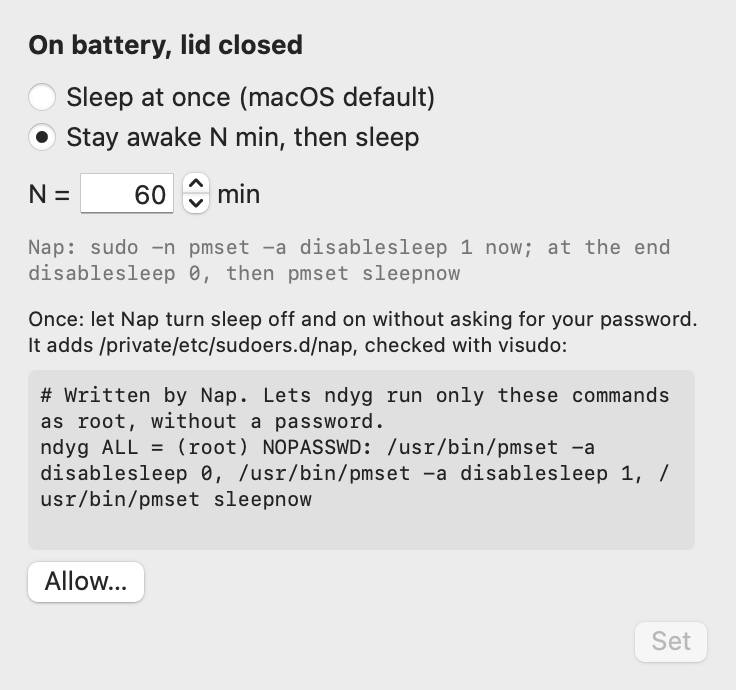
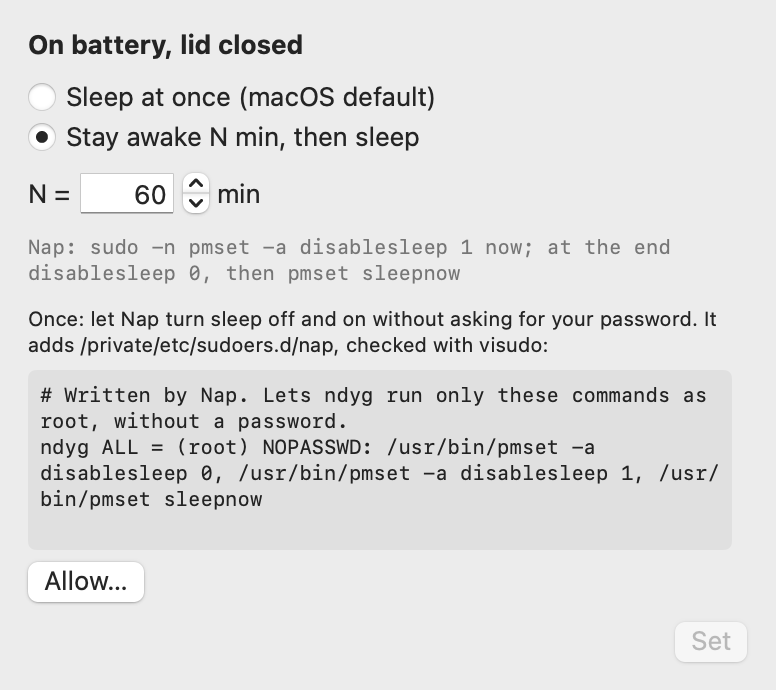
Show Me: words not raw settings, cells look clickable, macOS default choice
From a cold read of the window:
- Lid open cells say what the settings mean ("set to sleep after 1 min,
  but the display never turns off, so it never gets there") instead of
  "sleep 1, displaysleep 0" under "never sleeps".
- Every cell has a "Change" chevron, a hover state and a pointing hand,
  and a line saying "macOS default" or "not macOS default".
- Lid open choices start with "macOS default" (sudo pmset -c displaysleep
  10 sleep 1, -b displaysleep 2 sleep 1; checked on macOS 27.2 with
  IOPMCopyDefaultPreferences, read only).
- Plain names for Bluetooth advertising and Siri / Apple Intelligence;
  unknown apps lose machine IDs and keep a reason only when it is words.
- --snapshot also renders the lid open choices.

diff --git a/Sources/NapCore/Table.swift b/Sources/NapCore/Table.swift
@@ -5,17 +5,20 @@ import Foundation
 public enum Table {
     public struct Cell: Equatable, Sendable {
         public var text: String
-        /// The settings behind it, small, under the text.
+        /// One short line under the text, in words.
         public var detail: String?
         /// Whether this is what macOS does out of the box.
         public var isDefault: Bool
     }
 
     /// macOS defaults on a MacBook: sleep 1, displaysleep 10 plugged in and
-    /// 2 on battery, so it sleeps once the display is off.
+    /// 2 on battery, so it sleeps once the display is off. Checked on macOS
+    /// 27.2 with IOKit's IOPMCopyDefaultPreferences (read only).
     public static func defaultIdleMinutes(_ source: PowerSource) -> Int {
         source == .battery ? 2 : 10
     }
+
+    public static let defaultSleepMinutes = 1
 
     public static func defaultOpenText(_ source: PowerSource) -> String {
         "sleeps after \(minutes(defaultIdleMinutes(source))) idle"
@@ -39,21 +42,27 @@ public enum Table {
     public static func openCell(_ source: PowerSource, settings: PowerSettings, rule: LidRule,
                                 foreignDisableSleep: Bool) -> Cell {
         guard let s = settings.sources[source] else { return Cell(text: "unknown", detail: nil, isDefault: false) }
-        let detail = "sleep \(s.sleep ?? 0), displaysleep \(s.displaySleep ?? 0)"
+        let sleep = s.sleep ?? 0
+        let display = s.displaySleep ?? 0
         if foreignDisableSleep {
-            return Cell(text: "never sleeps (disablesleep 1)", detail: detail, isDefault: false)
+            return Cell(text: "never sleeps (disablesleep 1)",
+                        detail: "sleep is turned off for the whole Mac, not by Nap", isDefault: false)
         }
         guard let idle = idleMinutes(s) else {
-            let display = s.displaySleep ?? 0
-            let text = display == 0
-                ? "never sleeps (display stays on)"
-                : "never sleeps (display off after \(minutes(display)))"
-            return Cell(text: text, detail: detail, isDefault: false)
+            if display == 0 {
+                let detail = sleep > 0
+                    ? "set to sleep after \(minutes(sleep)), but the display never turns off, so it never gets there"
+                    : nil
+                return Cell(text: "never sleeps (display stays on)", detail: detail, isDefault: false)
+            }
+            return Cell(text: "never sleeps (display off after \(minutes(display)))", detail: nil, isDefault: false)
         }
         if rule.staysAwake {
             // Nap holds disablesleep 1 on this source so the lid can close awake.
-            return Cell(text: "never sleeps (held by the lid rule)", detail: detail, isDefault: false)
+            return Cell(text: "never sleeps (held by the lid rule)",
+                        detail: "Nap keeps sleep off so the lid can close awake", isDefault: false)
         }
+        let detail = sleep > display ? "display turns off after \(minutes(display))" : nil
         return Cell(text: "sleeps after \(minutes(idle)) idle", detail: detail,
                     isDefault: idle == defaultIdleMinutes(source))
     }
@@ -61,10 +70,11 @@ public enum Table {
     public static func closedCell(_ source: PowerSource, rule: LidRule, batteryFloor: Int,
                                   foreignDisableSleep: Bool) -> Cell {
         if foreignDisableSleep {
-            return Cell(text: "stays awake (disablesleep 1)", detail: nil, isDefault: false)
+            return Cell(text: "stays awake (disablesleep 1)",
+                        detail: "sleep is turned off for the whole Mac, not by Nap", isDefault: false)
         }
         let early = source == .battery
-            ? "sleeps early if hot or under \(batteryFloor)%"
+            ? "sleeps early if hot or battery under \(batteryFloor)%"
             : "sleeps early if hot"
         switch rule {
         case .sleep:
@@ -102,15 +112,20 @@ public enum Table {
                 name = String(m.1.split(separator: ".").last ?? m.1)
             }
             if let plain = plainWords(process: a.process, name: name) { return plain + left }
-            if name.count > 30 { name = name.prefix(29) + "…" }
-            let why = name.isEmpty || name == a.process ? "" : ", for \"\(name)\""
-            return "\(a.process) (an app or service\(why))\(left)"
+            // Keep the reason only when it reads as words, not an identifier.
+            name = withoutMachineIDs(name)
+            if name.count > 40 { name = name.prefix(39) + "…" }
+            let words = name.contains(" ") && name != a.process
+            let process = withoutMachineIDs(a.process)
+            return "\(process.isEmpty ? "an app" : process) (an app or service\(words ? ", for \"\(name)\"" : ""))\(left)"
         }
     }
 
     /// macOS services seen holding the Mac awake, said as what they are doing.
     static func plainWords(process: String, name: String) -> String? {
-        switch process {
+        if name.hasPrefix("BTLEAdvertisement") { return "Bluetooth advertising to nearby devices" }
+        if process.hasPrefix("Siri") || name.contains("Intelligence") { return "Siri / Apple Intelligence" }
+        return switch process {
         case "sharingd" where name.localizedCaseInsensitiveContains("handoff"):
             "Handoff: passing work between this Mac and a nearby iPhone or iPad"
         case "sharingd": "AirDrop or Handoff with a nearby device"
@@ -121,7 +136,20 @@ public enum Table {
         case "mds", "mds_stores", "mdworker": "Spotlight indexing"
         case "softwareupdated": "a software update"
         case "bluetoothd": "a Bluetooth device"
+        case "AddressBookSourceSync": "Contacts syncing"
         default: nil
         }
+    }
+
+    /// Drops machine IDs (UUIDs, hex numbers, long hex runs) and the
+    /// separators they leave behind.
+    public static func withoutMachineIDs(_ text: String) -> String {
+        var t = text
+        t = t.replacing(/[0-9A-Fa-f]{8}(-[0-9A-Fa-f]{4}){3}-[0-9A-Fa-f]{12}/, with: "")
+        t = t.replacing(/0x[0-9A-Fa-f]+/, with: "")
+        t = t.replacing(/\b(?=[0-9A-Fa-f]*[0-9])[0-9A-Fa-f]{6,}\b/, with: "")
+        t = t.replacing(/[.\-_:#]+(\s|$)/, with: " ")
+        t = t.replacing(/\s+/, with: " ")
+        return t.trimmingCharacters(in: CharacterSet(charactersIn: " .-_:#…"))
     }
 }

diff --git a/Tests/NapCoreTests/PmsetTests.swift b/Tests/NapCoreTests/PmsetTests.swift
@@ -57,8 +57,10 @@ import Foundation
     @Test func thisMacWithLidOpen() {
         // sleep 1 + displaysleep 0: never idle-sleeps, the display stays on.
         for source in [PowerSource.ac, .battery] {
-            #expect(open(source) == Table.Cell(text: "never sleeps (display stays on)",
-                                               detail: "sleep 1, displaysleep 0", isDefault: false))
+            #expect(open(source) == Table.Cell(
+                text: "never sleeps (display stays on)",
+                detail: "set to sleep after 1 min, but the display never turns off, so it never gets there",
+                isDefault: false))
         }
     }
 
@@ -71,7 +73,7 @@ import Foundation
 
     @Test func lidClosedRules() {
         #expect(Table.closedCell(.battery, rule: .stayAwake(minutes: 60), batteryFloor: 15, foreignDisableSleep: false)
-            == Table.Cell(text: "stays awake 60 min, then sleeps", detail: "sleeps early if hot or under 15%", isDefault: false))
+            == Table.Cell(text: "stays awake 60 min, then sleeps", detail: "sleeps early if hot or battery under 15%", isDefault: false))
         #expect(Table.closedCell(.ac, rule: .stayAwake(minutes: nil), batteryFloor: 15, foreignDisableSleep: false)
             == Table.Cell(text: "stays awake", detail: "sleeps early if hot", isDefault: false))
         #expect(Table.closedCell(.ac, rule: .sleep, batteryFloor: 15, foreignDisableSleep: true).text
@@ -83,8 +85,10 @@ import Foundation
             let s = PowerSettings(sources: [source: SourceSettings(["sleep": "\(sleep)", "displaysleep": "\(display)"])])
             return Table.openCell(source, settings: s, rule: rule, foreignDisableSleep: false)
         }
-        #expect(cell(1, 10).text == "sleeps after 10 min idle")
-        #expect(cell(1, 10).isDefault)
+        #expect(cell(1, 10) == Table.Cell(text: "sleeps after 10 min idle", detail: nil, isDefault: true))
+        #expect(cell(30, 10).detail == "display turns off after 10 min")
+        #expect(cell(0, 0).detail == nil)
+        #expect(cell(1, 10, rule: .stayAwake(minutes: 5)).detail == "Nap keeps sleep off so the lid can close awake")
         #expect(cell(1, 2, .battery).isDefault)
         #expect(!cell(1, 10, .battery).isDefault)
         #expect(cell(30, 10).text == "sleeps after 30 min idle")
@@ -105,6 +109,33 @@ import Foundation
             "a caffeinate command, run from a terminal or by an app, 2 min left",
         ])
         #expect(Table.awakeLines(Assertions()) == [])
+    }
+
+    func line(_ process: String, _ name: String, timeout: Int? = nil) -> String {
+        Table.awakeLines(Assertions(byProcess: [Assertion(pid: 1, process: process, type: "PreventUserIdleSystemSleep",
+                                                          name: name, timeoutSeconds: timeout)]))[0]
+    }
+
+    @Test func plainNamesForJargon() {
+        #expect(line("sharingd", "BTLEAdvertisement.D3EA10B4-4C2B-4F0E-9A51-2B7C1D0E9F33") == "Bluetooth advertising to nearby devices")
+        #expect(line("rapportd", "BTLEAdvertisement.D3EA10B4") == "Bluetooth advertising to nearby devices")
+        #expect(line("Siri AI", "UIIntelligenceSupport") == "Siri / Apple Intelligence")
+        #expect(line("AddressBookSourceSync", "Address Book Source Sync", timeout: 1792) == "Contacts syncing, 30 min left")
+    }
+
+    @Test func unknownAppsLoseMachineIDs() {
+        #expect(line("SomeAgent", "SyncTask.3F2504E0-4F89-11D3-9A0C-0305E82C3301") == "SomeAgent (an app or service)")
+        #expect(line("SomeAgent", "com.example.worker.0x7fa3b2c1") == "SomeAgent (an app or service)")
+        #expect(line("SomeAgent", "Uploading photos 9f8e7d6c5b4a") == "SomeAgent (an app or service, for \"Uploading photos\")")
+        #expect(line("SomeAgent", "SomeAgent") == "SomeAgent (an app or service)")
+        #expect(line("SomeAgent", "", timeout: 30) == "SomeAgent (an app or service), 1 min left")
+    }
+
+    @Test func machineIDStripping() {
+        #expect(Table.withoutMachineIDs("BTLEAdvertisement.D3EA10B4-4C2B-4F0E-9A51-2B7C1D0E9F33") == "BTLEAdvertisement")
+        #expect(Table.withoutMachineIDs("task 0xdeadbeef done") == "task done")
+        #expect(Table.withoutMachineIDs("Address Book Source Sync") == "Address Book Source Sync")
+        #expect(Table.withoutMachineIDs("facade") == "facade")  // a word, no digit
     }
 
     @Test func barOnlyWhileAwakeWithLidClosed() {
@@ -129,6 +160,11 @@ import Foundation
         #expect(Goal(source: .battery, kind: .idleSleepAfter, minutes: 10).command
             == "sudo pmset -b displaysleep 10 sleep 10")
         #expect(Goal(source: .battery, kind: .neverIdleSleep).command == "sudo pmset -b sleep 0")
+        // Back to macOS's own settings (checked on macOS 27.2).
+        #expect(Goal(source: .ac, kind: .macDefault).command == "sudo pmset -c displaysleep 10 sleep 1")
+        #expect(Goal(source: .battery, kind: .macDefault).command == "sudo pmset -b displaysleep 2 sleep 1")
+        let restored = PowerSettings(sources: [.battery: SourceSettings(["displaysleep": "2", "sleep": "1"])])
+        #expect(Table.openCell(.battery, settings: restored, rule: .sleep, foreignDisableSleep: false).isDefault)
     }
 }
 

diff --git a/Sources/Nap/ShowMe.swift b/Sources/Nap/ShowMe.swift
@@ -5,6 +5,7 @@ import SwiftUI
 struct ShowMe: View {
     @ObservedObject var controller: Controller
     @State private var open: CellID?
+    @State private var hovered: CellID?
     static let labelWidth: CGFloat = 84
     static let cellWidth: CGFloat = 200
 
@@ -77,22 +78,38 @@ struct ShowMe: View {
                 Text(detail).font(.caption).foregroundStyle(.secondary)
                     .fixedSize(horizontal: false, vertical: true)
             }
-            if !c.isDefault {
-                Text("not macOS default").font(.caption2).foregroundStyle(.orange)
+            Spacer(minLength: 2)
+            HStack(spacing: 4) {
+                Text(c.isDefault ? "macOS default" : "not macOS default")
+                    .font(.caption2)
+                    .foregroundStyle(c.isDefault ? Color.secondary : Color.orange)
+                Spacer()
+                Text("Change")
+                    .font(.caption)
+                Image(systemName: "chevron.down")
+                    .font(.caption2.weight(.semibold))
             }
+            .foregroundStyle(Color.accentColor)
         }
         .padding(8)
         .frame(width: Self.cellWidth, alignment: .topLeading)
         .frame(maxHeight: .infinity, alignment: .topLeading)
-        .background(RoundedRectangle(cornerRadius: 6).fill(Color.secondary.opacity(0.08)))
+        .background(RoundedRectangle(cornerRadius: 6)
+            .fill(Color.secondary.opacity(hovered == id || open == id ? 0.16 : 0.08)))
         .overlay(RoundedRectangle(cornerRadius: 6)
-            .stroke(c.isDefault ? Color.clear : Color.orange.opacity(0.6)))
+            .stroke(c.isDefault ? Color.secondary.opacity(0.25) : Color.orange.opacity(0.6)))
         .contentShape(Rectangle())
+        .onHover { inside in
+            if inside { hovered = id; NSCursor.pointingHand.push() } else { if hovered == id { hovered = nil }; NSCursor.pop() }
+        }
         .onTapGesture { open = id }
+        .accessibilityElement(children: .combine)
+        .accessibilityAddTraits(.isButton)
+        .accessibilityHint("Shows the choices for this cell")
         .popover(isPresented: Binding(get: { open == id }, set: { if !$0 { open = nil } })) {
             CellChoices(controller: controller, source: id.source, lidClosed: id.lidClosed) { open = nil }
                 .padding(14)
-                .frame(width: 340)
+                .frame(width: 360)
         }
     }
 }
@@ -104,7 +121,7 @@ struct CellChoices: View {
     let lidClosed: Bool
     var done: () -> Void = {}
 
-    enum Choice: Hashable { case never, after, sleep, awakeFor, awakeAlways }
+    enum Choice: Hashable { case macDefault, never, after, sleep, awakeFor, awakeAlways }
     @State private var choice: Choice
     @State private var minutes: Int
 
@@ -121,14 +138,22 @@ struct CellChoices: View {
             case .stayAwake(let m?): _choice = State(initialValue: .awakeFor); _minutes = State(initialValue: m)
             }
         } else {
-            let idle = controller.settings.sources[source].flatMap(Table.idleMinutes)
-            _choice = State(initialValue: idle == nil ? .never : .after)
+            let current = controller.settings.sources[source]
+            let idle = current.flatMap(Table.idleMinutes)
+            let isDefault = current?.sleep == Table.defaultSleepMinutes
+                && current?.displaySleep == Table.defaultIdleMinutes(source)
+            _choice = State(initialValue: isDefault ? .macDefault : idle == nil ? .never : .after)
             _minutes = State(initialValue: idle ?? Table.defaultIdleMinutes(source))
         }
     }
 
     private var goal: Goal {
-        Goal(source: source, kind: choice == .never ? .neverIdleSleep : .idleSleepAfter, minutes: minutes)
+        let kind: Goal.Kind = switch choice {
+        case .macDefault: .macDefault
+        case .never: .neverIdleSleep
+        default: .idleSleepAfter
+        }
+        return Goal(source: source, kind: kind, minutes: minutes)
     }
 
     private var rule: LidRule {
@@ -155,6 +180,7 @@ struct CellChoices: View {
                     Text("Stay awake N min, then sleep").tag(Choice.awakeFor)
                     if source == .ac { Text("Stay awake").tag(Choice.awakeAlways) }
                 } else {
+                    Text("macOS default: \(Table.defaultOpenText(source))").tag(Choice.macDefault)
                     Text("Never sleep when idle").tag(Choice.never)
                     Text("Sleep after N min idle").tag(Choice.after)
                 }
@@ -214,6 +240,9 @@ struct CellChoices: View {
         if rule.staysAwake {
             return "Nap: sudo -n pmset -a disablesleep 1 now; at the end disablesleep 0, then pmset sleepnow"
         }
-        return "No command: macOS does this when Nap holds nothing."
+        if controller.guardian.rule(source).staysAwake {
+            return "Nap stops holding sleep off \(source.label.lowercased()): sudo -n pmset -a disablesleep 0"
+        }
+        return "Nothing to run: macOS already does this."
     }
 }

diff --git a/Sources/Nap/Controller.swift b/Sources/Nap/Controller.swift
@@ -270,14 +270,16 @@ final class Controller: NSObject, ObservableObject {
         showWindow()
         DispatchQueue.main.asyncAfter(deadline: .now() + 1) { [self] in
             if let view = window?.contentView { Self.png(view, to: dir + "/show-me.png") }
-            let choices = NSHostingView(rootView: CellChoices(controller: self, source: .battery, lidClosed: true,
-                                                              initial: .stayAwake(minutes: 60))
-                .frame(width: 340).padding(14).background(Color(nsColor: .windowBackgroundColor)))
-            let w = NSWindow(contentRect: NSRect(origin: .zero, size: choices.fittingSize), styleMask: [.borderless],
-                             backing: .buffered, defer: false)
-            w.contentView = choices
-            choices.layoutSubtreeIfNeeded()
-            Self.png(choices, to: dir + "/show-me-cell.png")
+            for (name, closed) in [("show-me-cell.png", true), ("show-me-cell-open.png", false)] {
+                let choices = NSHostingView(rootView: CellChoices(controller: self, source: .battery, lidClosed: closed,
+                                                                  initial: closed ? .stayAwake(minutes: 60) : nil)
+                    .frame(width: 360).padding(14).background(Color(nsColor: .windowBackgroundColor)))
+                let w = NSWindow(contentRect: NSRect(origin: .zero, size: choices.fittingSize), styleMask: [.borderless],
+                                 backing: .buffered, defer: false)
+                w.contentView = choices
+                choices.layoutSubtreeIfNeeded()
+                Self.png(choices, to: dir + "/" + name)
+            }
             if let button = statusItem?.button, let bw = button.window {
                 NSLog("Nap: status item at \(bw.frame)")
             }

diff --git a/Sources/NapCore/Goals.swift b/Sources/NapCore/Goals.swift
@@ -5,6 +5,8 @@ public struct Goal: Identifiable, Equatable, Sendable {
     public enum Kind: String, Sendable {
         case neverIdleSleep
         case idleSleepAfter
+        /// macOS's own settings for this source.
+        case macDefault
     }
 
     public var source: PowerSource
@@ -30,6 +32,8 @@ public struct Goal: Identifiable, Equatable, Sendable {
         case .idleSleepAfter:
             // The Mac only idle-sleeps once the display is off, so both are set.
             [("displaysleep", minutes), ("sleep", minutes)]
+        case .macDefault:
+            [("displaysleep", Table.defaultIdleMinutes(source)), ("sleep", Table.defaultSleepMinutes)]
         }
     }
 
